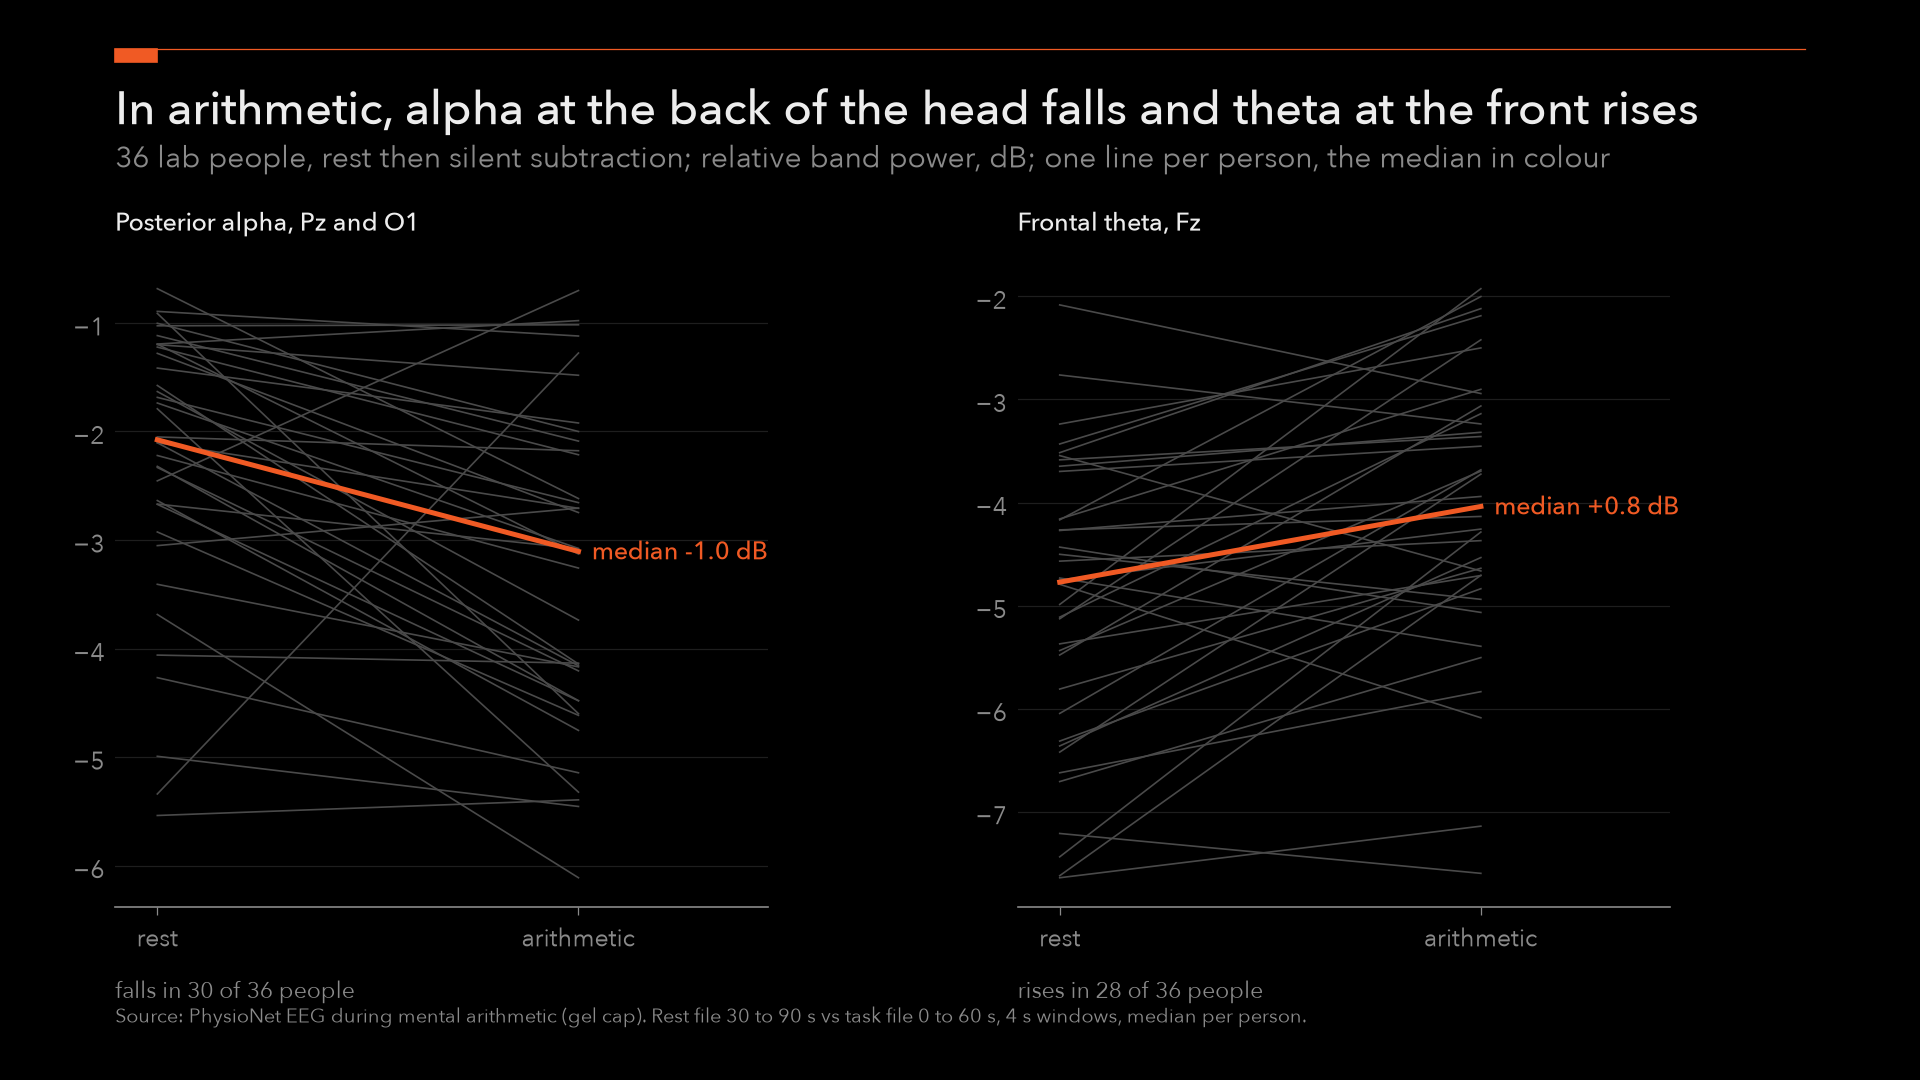
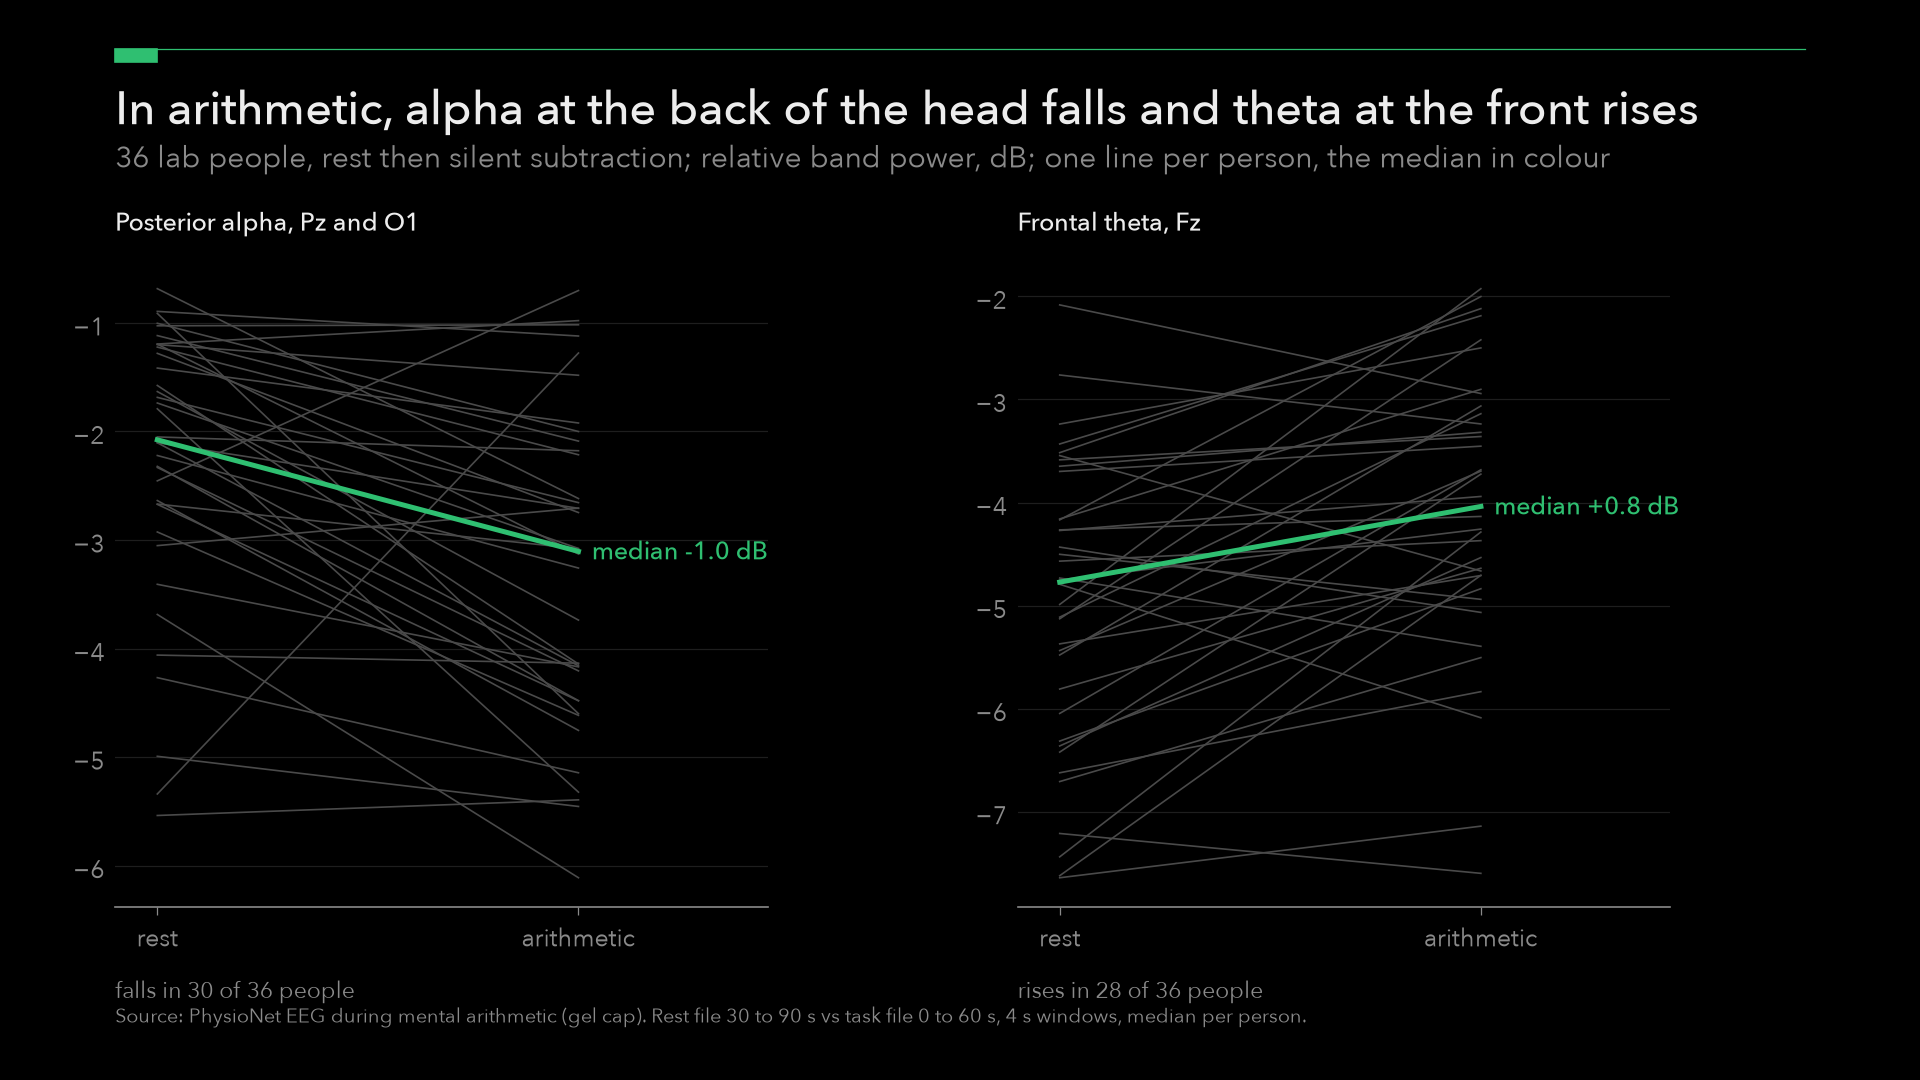
Figures: accent green (#2FBF71) on black

diff --git a/loadmonitor/figures_editorial.py b/loadmonitor/figures_editorial.py
@@ -222,7 +222,7 @@ a.set_xlim(1, n_est); a.set_ylim(0.45, 1.0); a.set_xlabel("boosting trees"); a.s
 F.source(fig, "Source: PhysioNet EEG during mental arithmetic, 36 people. Live recipe: 5 channels, cleaning chain, 29 amplitude-invariant features, 200 trees of depth 2.")
 out(fig, 5, "training_curve.png")
 
-fig = F.page(f"On people it has never seen, the model reaches an AUROC of {pooled:.2f}", "Each of 36 people scored by a model trained on the other 35, one 4 s window at a time; grey = one person, orange = all pooled")
+fig = F.page(f"On people it has never seen, the model reaches an AUROC of {pooled:.2f}", "Each of 36 people scored by a model trained on the other 35, one 4 s window at a time; grey = one person, green = all pooled")
 a = fig.add_axes([0.30, 0.15, 0.40, 0.63]); a.tick_params(axis="y", length=0); a.grid(True, axis="both")
 for fpr, tpr in per_curves:
     a.plot(fpr, tpr, color=F.GREY, lw=0.8, alpha=0.6)

diff --git a/loadmonitor/figstyle.py b/loadmonitor/figstyle.py
@@ -25,7 +25,7 @@ INK = "#EDEDED"
 INK2 = "#8A8A8A"          # subtitle, ticks, source, de-emphasised text
 GRID = "#1E1E1E"
 GREY = "#4A4A4A"          # context series
-ACCENT = "#F05A24"        # the one important thing (the page's alarm orange)
+ACCENT = "#2FBF71"        # the one important thing (the page's green)
 LEAD = "#EDEDED"          # lead series: ink, so colour is spent only on the accent
 BAND = "#141414"          # shaded spans (task phase, brain bands)
 
